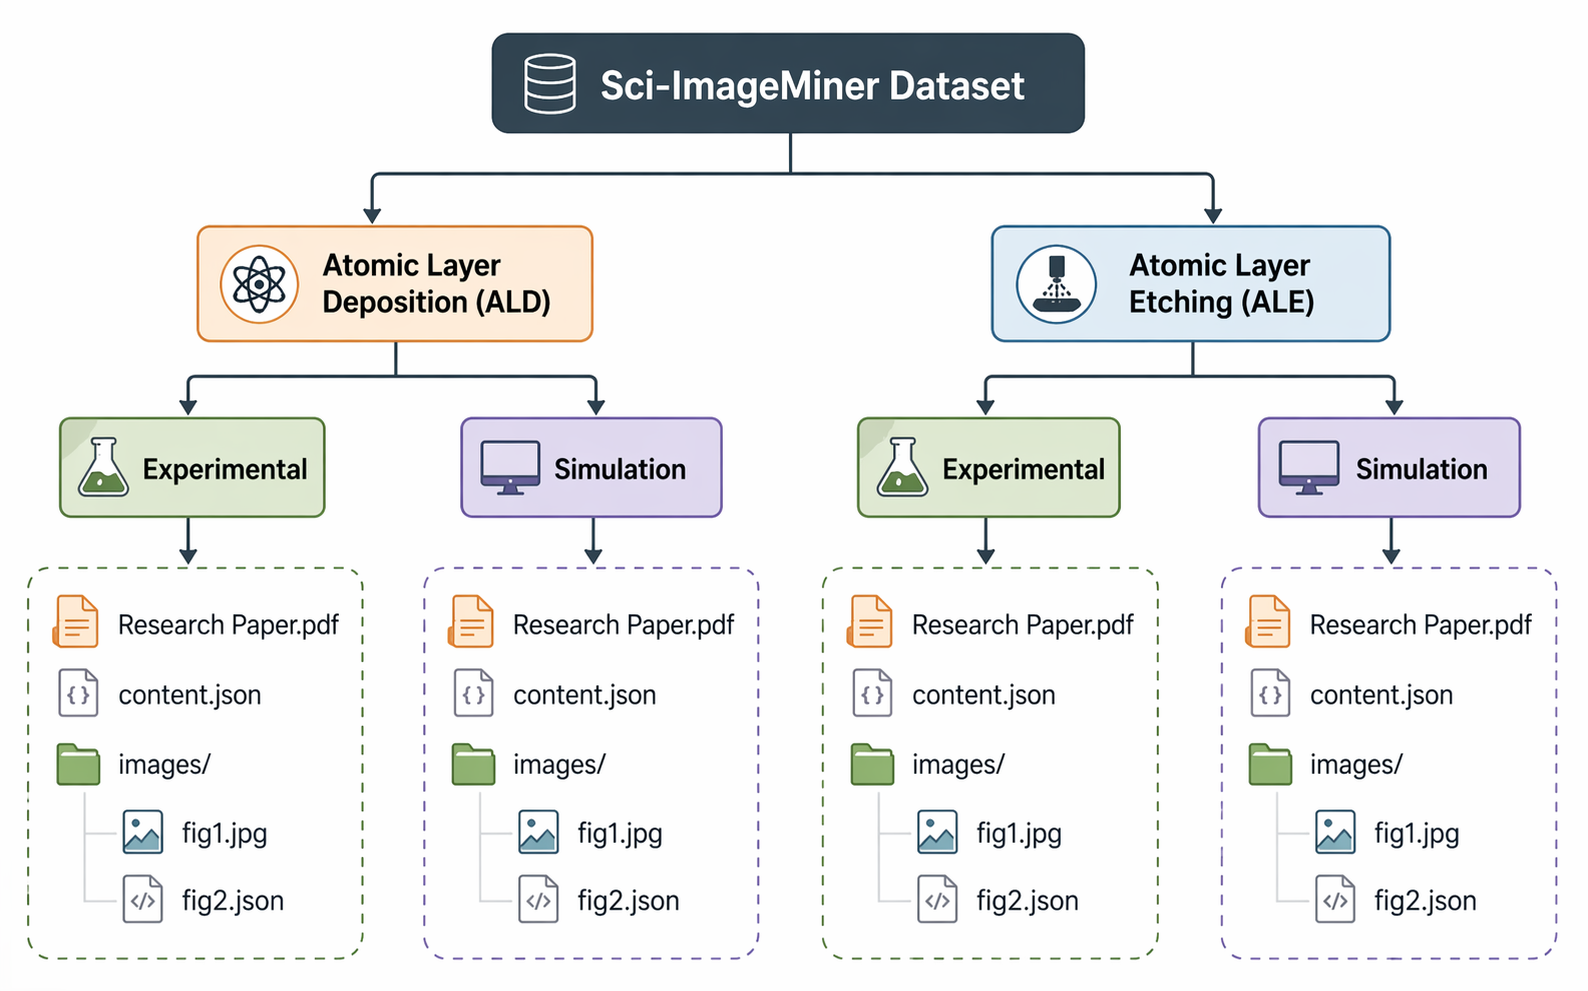
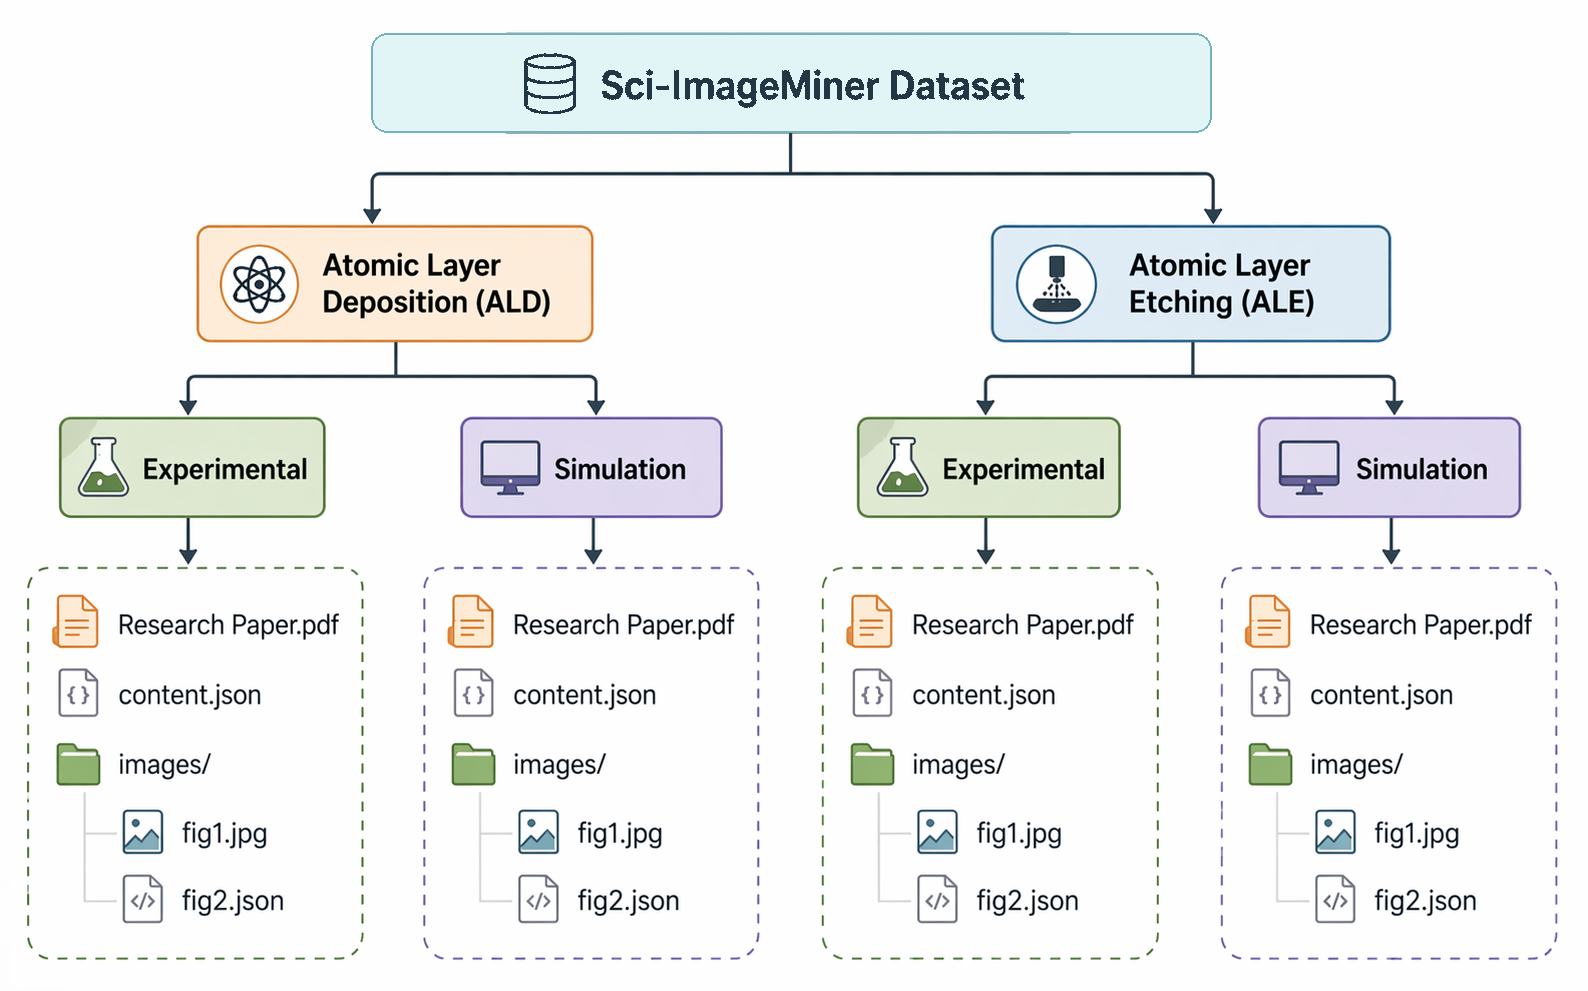
Lighten dataset hierarchy header

Changed region(s): [[0.216, 0.0303, 0.7714, 0.1514]]

diff --git a/docs/index.html b/docs/index.html
@@ -113,7 +113,7 @@
               Figure 2.
             </p>
             <img
-              src="assets/fig_dataset_organization_hierarchy_v2.png"
+              src="assets/fig_dataset_organization_hierarchy_v2.png?v=20260805-light-header"
               alt="ALD/E-ImageMiner dataset organization hierarchy"
             />
             <figcaption>
